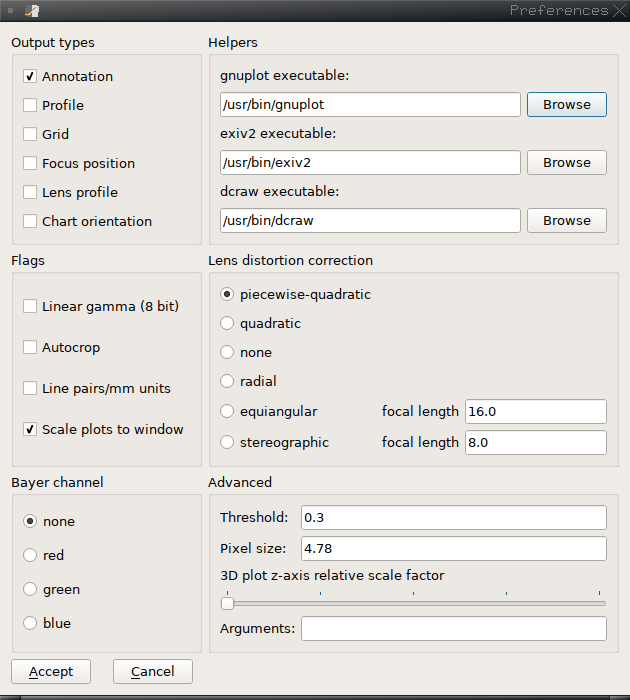
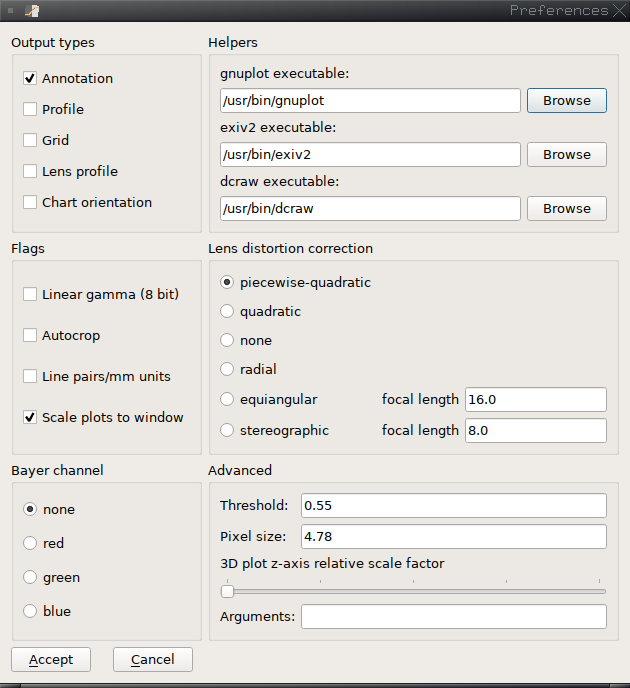
updated documentation to reflect GUI changes

diff --git a/doc/mtf_mapper_user_guide.tex b/doc/mtf_mapper_user_guide.tex
@@ -350,7 +350,14 @@ files) by choosing \textsf{File/Open} from the menu bar. That gives you the
 dialog depicted in Figure~\ref{fig:file_dialog}. Input files can be in a variety 
 of image formats, including \texttt{.tif, .png, .jpg, .pgm}, 
 or any raw format supported by \verb+dcraw+, including 
-\texttt{.nef, .cr2, .pef, .arw}, and many more.
+\texttt{.nef, .cr2, .pef, .arw, .orf, .rw2, .dng, .iiq, .mos}, and maybe more.
+
+You may notice that there are two additional \textsf{Open} options, namely
+\textsf{Open single edge image(s)}, and \textsf{Open Focus Position
+image(s)}. These two entries are used to open very specific type of images,
+which are discussed in Section~\ref{sec:single_roi_mode} and Section~\ref{sec:focus_distance_details}
+respectively. Unless you are dealing with these specific image types, use
+the plain \textsf{File/Open} option.
 
 \newpage
 
@@ -806,7 +813,9 @@ with this chart.
 \vspace{1ex}
 
 This chart type is intended to be used with the MTF Mapper \textsf{Focus
-position} output type. Trying to produce other MTF Mapper output types using
+position} output type, which can only be selected by choosing 
+\textsf{File Focus Position image(s)} from the \textsf{File} menu in the GUI.
+Trying to produce other MTF Mapper output types using
 this test chart is not recommended.
 
 \subsubsection{mfperspective}
@@ -1071,7 +1080,10 @@ should reveal the truth.
 \label{sec:focus_distance_details}
 A brief description of the \textsf{Focus position} output type can be found in
 Section~\ref{sec:focus_distance}; this section covers some important
-details. 
+details. Note that since MTF Mapper 0.6.20 this output type can only 
+be produced by opening the files using \textsf{File/Open Focus Position
+image(s)}, but in older versions a regular checkbox existed to select this 
+output type.
 
 \begin{figure}[ht!]
 \centering
@@ -1455,8 +1467,8 @@ images.
 
 Figure~\ref{fig:single_roi_mode} shows one example of such a cropped image
 of a slanted edge. To use such an image with MTF Mapper, just pass the
-\texttt{--single-roi} option to the command-line tool, or add it to the
-`Arguments' field in the \textsf{Preferences} dialog. Of course, the only
+\texttt{--single-roi} option to the command-line tool, or open your files
+using the \textsf{File/Open single edge images(s)} GUI option. Of course, the only
 sensible visual output for such an input image would be the \textsf{Annotated
 image} option; from there you can view the SFR curve in the gui. (Or see the
 \texttt{-q} output option for the command-line tool).

diff --git a/src/gui/worker_thread.cc b/src/gui/worker_thread.cc
@@ -238,7 +238,6 @@ QString Worker_thread::update_arguments(QString& s) {
         arguments.replace("-p ", " ");
         arguments.replace("--profile ", " ");
         arguments.replace("--focus ", " ");
-        arguments.replace("--mf-focus ", " ");
         arguments.replace("--chart-orientation ", " ");
     }
     
